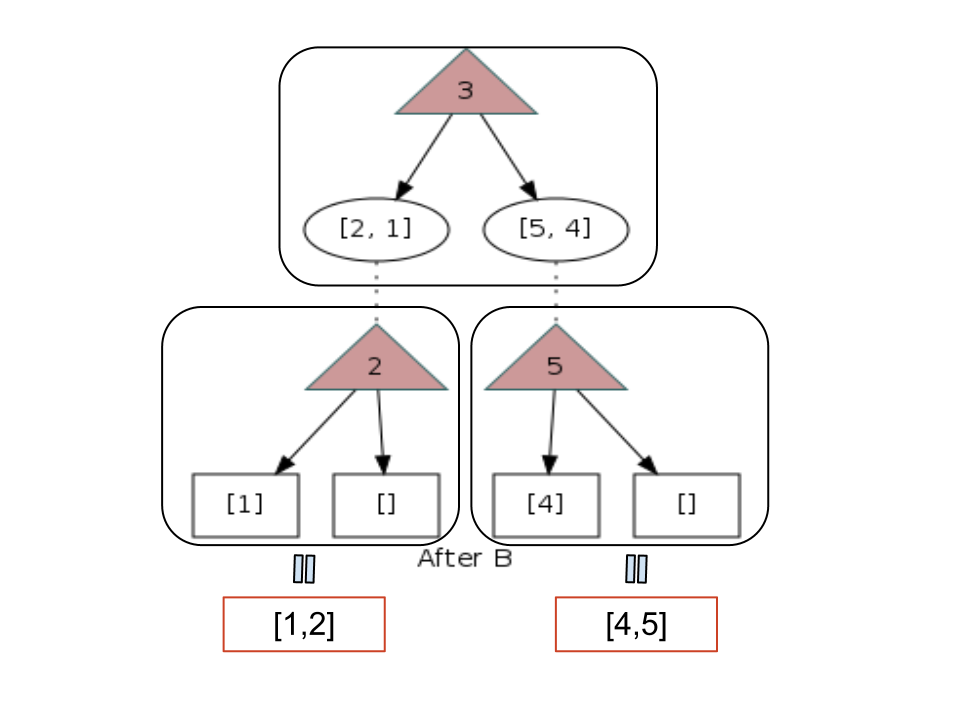
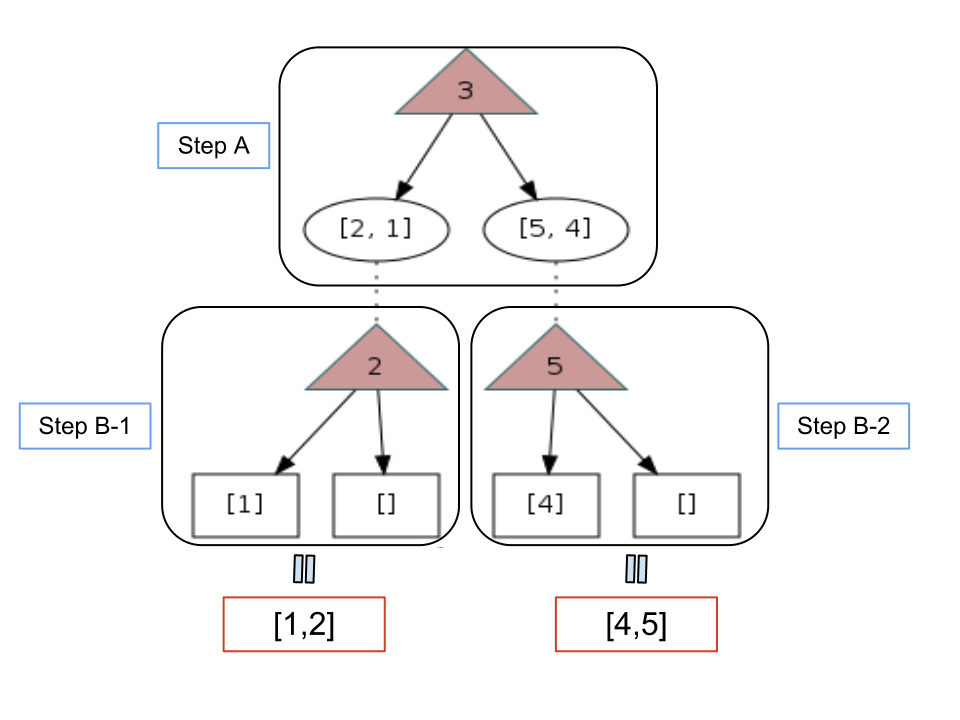
edit notes

diff --git a/sphinx-doc/source/theme-css/static/main.css b/sphinx-doc/source/theme-css/static/main.css
@@ -66,6 +66,14 @@ table.docutils td {
   border-width: 1px;
 }
 
+table.docutils.footnote {
+  border: none;
+}
+table.docutils.footnote tr td.label{
+  padding: 1px 3px 1px 5px;
+}
+
+
 
 /*--- ID で指定されるもの ---*/
 /* ID の一覧

diff --git a/sphinx-doc/source/haskel_contents/1.QuickSort.rst b/sphinx-doc/source/haskel_contents/1.QuickSort.rst
@@ -12,18 +12,9 @@
 0. 問題
 ---------
 
-リスト [3, 2, 5, 4, 1] の要素を並べ替えて、[1, 2, 3, 4, 5] にする、効率の良い手順を考えましょう。
+リスト [3, 2, 5, 4, 1] の要素を並べ替えて、[1, 2, 3, 4, 5] にする手順を考えましょう。
 
-並べ替えをする際にに許される操作は、
-
-::
-
-   1. 要素をリストのどこかに挿入する
-   2. 2つの要素を比較する
-   3. 2つの要素を入れ替える
-
-
-ということにしましょう
+できるだけ少ない手順で並び替え(ソート)を行いたいと思っています。
 
 
 1. バブルソート
@@ -66,8 +57,8 @@
 
 このソートの方法をバブルソートというようです。
 
-1-2. 実装
-^^^^^^^^^^^^
+1-2. 実装してみる
+^^^^^^^^^^^^^^^^^^^
 
 1. Haskell での実装例
 
@@ -98,8 +89,8 @@
    end
 
 
-1-3. 反省
-^^^^^^^^^^^^^^^
+1-3. 考えてみる
+^^^^^^^^^^^^^^^^^^^^^
 
 この方法で、何回要素を比較しないといけないか考えてみます。
 1つの要素を後ろに持っていくのに、上の a-d の4回必要でした。
@@ -109,7 +100,7 @@
 サイズ N のリストに対して、 a-d に対応する操作は、 N-1 回必要で、
 要素が N 個あるので、 :math:`N\times(N-1)` 回も要素を比較しなければなりません。
 
-(実際には、 :math:`\frac{N\times(N-1)}{2}` くらいまで減らせる。)
+(実際には、 :math:`\frac{N\times(N-1)}{2}` くらいまで減らすことが可能です。)
 
 
 2. クイックソート
@@ -139,34 +130,23 @@
 
 [3, 2, 5, 4, 1] に対して、
 
-| A. 先頭要素 3 を取り、リストの要素と3を比較する。すると次の2つのリストを得る。
+| A. ピボットの選択 : 先頭要素 3 を取る。
+|    リストの要素とピボットの3を比較する。すると次の2つのリストを得る。
 |      [2, 1] : 3より小さい要素からなるリスト
 |      [5, 4] : 3以上の要素からなるリスト
-
-.. graphviz::
-
-   digraph qicksortGraph1 {
-      graph [size="3.0, 12.0", label = "After A"];
-     "3" [shape = triangle, style = filled,  color = "#336666",  fillcolor = "#CC9999"];
-     "[2, 1]" [shape=box];
-     "[5, 4]" [shape=box];
-
-     "3" -> "[2, 1]";
-     "3" -> "[5, 4]";
-   }
-
-| B-1. [2, 1] に対して、先頭要素 2 を取り、リスト要素と2を比較する。次の2つのリストを得る。
-|        [1] : 2より小さい要素からなるリスト
-|        []  : 2より大きい要素からなるリスト
-| B-2. [5, 4] に対して、先頭要素 5 を取り、リスト要素と2を比較する。次の2つのリストを得る。
-|        [4] : 5より小さい要素からなるリスト
-|        []  : 5より大きい要素からなるリスト
+| B. リストを2つに分割
+|      B-1.  [2, 1] に対して、先頭要素 2 を取り、リスト要素と2を比較する。次の2つのリストを得る。
+|            [1] : 2より小さい要素からなるリスト
+|            []  : 2より大きい要素からなるリスト
+|      B-2.  [5, 4] に対して、先頭要素 5 を取り、リスト要素と2を比較する。次の2つのリストを得る。
+|            [4] : 5より小さい要素からなるリスト
+|            []  : 5より大きい要素からなるリスト
 
 .. .. graphviz::
-.. 
+..
 ..    digraph qicksortGraph2 {
 ..       graph [size="3.0, 12.0", label = "After B"];
-.. 
+..
 ..      subgraph class1 {
 ..        color="turquoise";
 ..        style = filled;
@@ -175,10 +155,10 @@
 ..        "3" -> "[2, 1]";
 ..        "3" -> "[5, 4]";
 ..      }
-.. 
+..
 ..      "2" [shape = triangle, style = filled,  color = "#336666",  fillcolor = "#CC9999"];
 ..      "[2, 1]" -> "2" [arrowhead = none, style=dotted];
-.. 
+..
 ..      subgraph class2 {
 ..        label = "B-1";
 ..        "[1]" [shape = box];
@@ -186,11 +166,11 @@
 ..        "2" -> X;
 ..        "2" -> "[1]";
 ..      }
-.. 
+..
 ..      "5" [shape = triangle, style = filled,  color = "#336666",  fillcolor = "#CC9999"];
 ..      "[5, 4]" -> "5" [arrowhead = none, style=dotted];
 ..      subgraph class3 {
-.. 
+..
 ..        label = "B-2";
 ..        "[4]" [shape = box];
 ..        Y [shape = box, label="[]"];
@@ -206,8 +186,8 @@
 
 結果として、 [1, 2], [3], [4, 5] という3つのリストを合わせた、[1, 2, 3, 4, 5] というリストが得られます。
 
-2-2. 実装
-^^^^^^^^^^^
+2-2. 実装してみる
+^^^^^^^^^^^^^^^^^^
 
 1. Haskell での実装例
 
@@ -219,6 +199,11 @@
      let smaller = filter (<x) xs
          larger = filter (>=x) xs
      in quicksort' smaller ++ [x] ++ quicksort' larger
+
+|   この実装はよく例に挙がる実装ですが、メモリ利用という点で非常に効率が良くないものです。
+|   下記のRuby での実装は破壊的な操作を行うことでメモリを節約しています。
+
+Haskell でのより良い実装については [1]_ を参照してください。
 
 2. Ruby での実装例
 
@@ -247,7 +232,67 @@
    end
 
 
-2-3. 反省
-^^^^^^^^^^^^^^
+2-3. 考えてみる
+^^^^^^^^^^^^^^^^^^
+
+| まず、このアルゴリズムの良いところは、アルゴリズムを再帰で書けることです。
+| "リストをある方法で小さなリストに分割する" という同じ手順を何度も繰り返すことで、ソートが完了するので、実装が非常に簡単です。
+
+
+| 次に計算量についてですが、このアルゴリズムの計算量は、ピボットの選択によって大きく異なることがわかります。
+| 上の実装の場合、[5, 4, 3, 2, 1] というリストをソートする際に計算量が大きくなります。
+| ピボットの選択は、できるなら中央値を取るのが良いでしょう。
+| 詳細は省きますが、平均的には :math:`O(n \log n)` 程度の計算量になることが知られています。
+
+3. 比較してみる
+-----------------
+
+上に書いた実装例で実行時間を測ってみました。
+
+具体的には、 長さ10万, 各要素は1~100万の間というリストをランダムに生成して、上に書いた実装例で実行時間を計測しました。
+クイックソートはこれを5回行い平均を取りましたが、バブルソートは時間がかかりすぎるので1度だけ行いました。
+
++-------------------------+-------------------------+
+| バブルソート            | クイックソート          |
++------------+------------+------------+------------+
+| Haskell    | Ruby       | Haskell    | Ruby       |
++============+============+============+============+
+| 1202秒     | 2052秒     | 7.50ミリ秒 | 2.56秒     |
++------------+------------+------------+------------+
+
+| このように、適当な場合にはクイックソートの方が遥かに効率が良いことがわかります。
+
+| 次に、 [100000, 99999, 99998, ..., 1] というリストに対して同様のことを行なってみました。
+| このリストは、上記の実装のクイックソートで、最も計算量の大きなリストです。
+
++-------------------------+-------------------------+
+| バブルソート            | クイックソート          |
++------------+------------+------------+------------+
+| Haskell    | Ruby       | Haskell    | Ruby       |
++============+============+============+============+
+|  940秒     | 2043秒     | \*1        | \*2        |
++------------+------------+------------+------------+
+
+| \*1 は、メモリを使いすぎてスワップアウトして、いつまで経っても終わらないので計測できませんでした。 少なくとも 8時間はかかっていました。スワップアウトしないならもっと速いと思いますが、実装を変更するほうが現実的だと思います。
+| \*2 は、スタックが深すぎて途中で SystemStackError が投げられてしまいました。再帰を使わずに書いた方が良いかもしれません。
+
+4. まとめ
+----------------
+
+| 以上のように、クイックソートは実装が簡単でありながらも、ランダムなデータに対して効率良いソート方法です。
+| しかし、リストによっては、あまりにも単純な実装だとうまくいかないことがあるようです。
+
+| 事前に何らかの構造を持ったデータであることがわかっている場合には、ソート方法をうまく選ぶと良いと思います。
+
+-----
+
+| ...Haskell でもっとうまく実装できるようになりたい。
+
+5. 参考
+---------------
+
+.. [1] : `あどけない話 - Haskellの配列でクイックソート <http://d.hatena.ne.jp/kazu-yamamoto/20120706/1341546985>`_
+
+.. [2] : `Hackage - Intro Sort の実装 <http://hackage.haskell.org/packages/archive/vector-algorithms/0.5.4.2/doc/html/src/Data-Vector-Algorithms-Intro.html>`_
 
 
